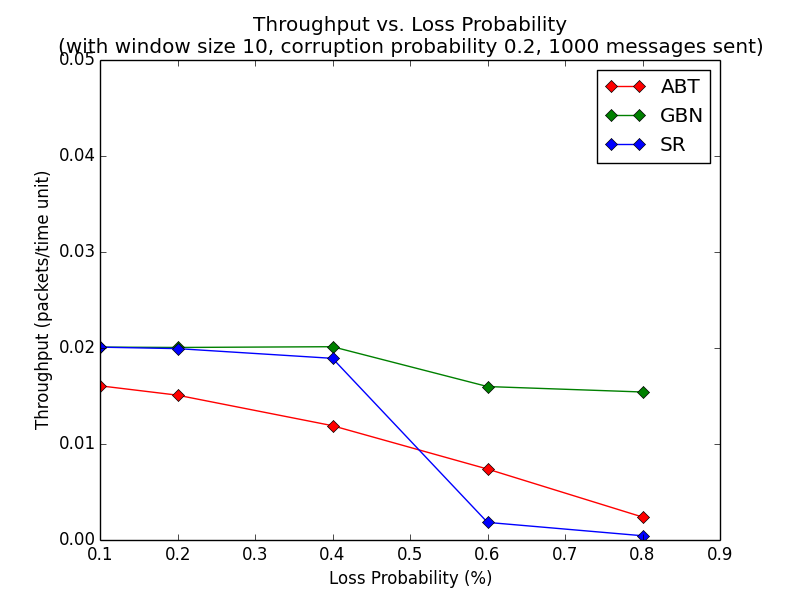
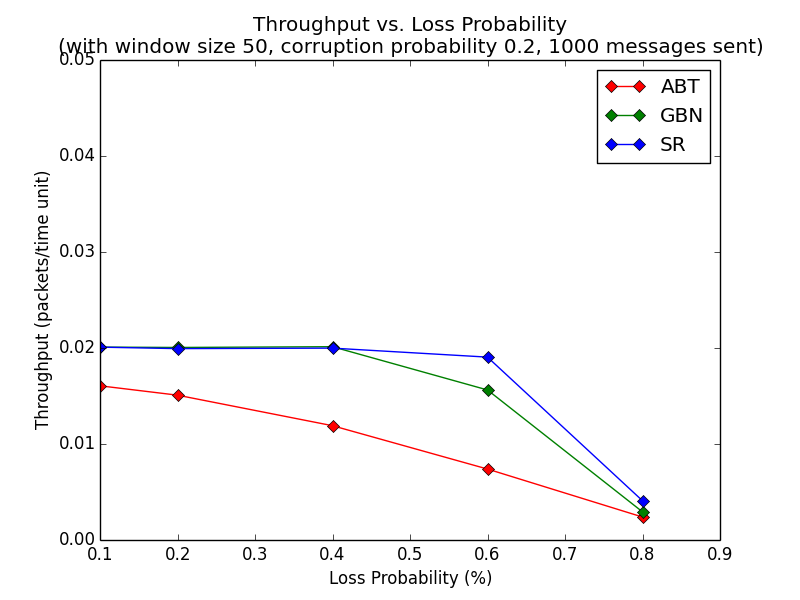
Tweak

diff --git a/rshannon/src/sr.cpp b/rshannon/src/sr.cpp
@@ -283,6 +283,18 @@ void A_input(struct pkt packet)
 	}
 	//DEBUG("sender: received ack " << packet.acknum);
 
+	// Update send_base
+	std::sort(unacked_buf.begin(), unacked_buf.end(), sort_by_seq);
+	if(unacked_buf[0].seqnum == packet.acknum) {
+		if(unacked_buf.size() > 1) {
+			send_base = unacked_buf[1].seqnum;
+		} else {
+			send_base++;
+		}
+	}
+	//send_base = unacked_buf[0].seqnum;	
+	DEBUG("BASE updated to " << send_base);	
+
 	// Mark packet as received
 	int i;
 	bool pkt_already_received = true;
@@ -297,26 +309,28 @@ void A_input(struct pkt packet)
 		unacked_buf.erase(unacked_buf.begin()+i);
 	}
 
+	// Send queued packets if there is space available in the window
+	int free_to_send = window_size - unacked_buf.size();	// The number of new packets that can be sent
+	int avail_to_send = unsent_buf.size();					// The number of queued packet available to be sent
+	if(free_to_send > avail_to_send) { free_to_send = avail_to_send; }
+	for(int i = 0; i < free_to_send; i++) {
+		if(unsent_buf.size() == 0) { break; }
+		struct pkt packet = unsent_buf.front();
+		unsent_buf.pop_front();
+		send_pkt(0, packet);
+		// Buffer unacknowledged packet
+		add_to_unacked_buf(packet);
+	}
+
 	// Update window base
 	if(packet.acknum == send_base) {
-		std::sort(unacked_buf.begin(), unacked_buf.end(), sort_by_seq);
-		send_base = unacked_buf[0].seqnum;
+		//std::sort(unacked_buf.begin(), unacked_buf.end(), sort_by_seq);
+		//send_base = unacked_buf[0].seqnum;	
+		//DEBUG("BASE updated to " << send_base);	
 
-		// Send queued packets if there is space available in the window
-		int free_to_send = window_size - unacked_buf.size();	// The number of new packets that can be sent
-		int avail_to_send = unsent_buf.size();					// The number of queued packet available to be sent
-		if(free_to_send > avail_to_send) { free_to_send = avail_to_send; }
-		for(int i = 0; i < free_to_send; i++) {
-			if(unsent_buf.size() == 0) { break; }
-			struct pkt packet = unsent_buf.front();
-			unsent_buf.pop_front();
-			send_pkt(0, packet);
-			// Buffer unacknowledged packet
-			add_to_unacked_buf(packet);
-		}
+
 	}
-	
-	send_base++;
+	//send_base++;
 }
 
 bool sort_by_seq(const pkt& a, const pkt& b) {
@@ -431,12 +445,12 @@ void B_input(struct pkt packet)
 			DEBUG("receiver: buffering out of order packet " << packet.seqnum);
 			recv_buf.push_back(packet);
 		}
-	} else if (packet.seqnum >= recv_base-window_size && packet.seqnum < recv_base) {
+	} //else if (packet.seqnum >= recv_base-window_size && packet.seqnum < recv_base) {
 		// Send acknowledgement
 		struct pkt ack_pkt = make_ack_pkt(packet.seqnum, packet.seqnum);
 		DEBUG("receiver: packet received, sending ack " << packet.seqnum);
 		send_pkt(1, ack_pkt);
-	}
+	//}
 }
 
 /* the following rouytine will be called once (only) before any other */

diff --git a/scripts/Experiment 3 Results/exp3-graphs.py b/scripts/Experiment 3 Results/exp3-graphs.py
@@ -1,7 +1,7 @@
 import matplotlib.pyplot as plt
 
 """
-Loss=0,Corruption=0,t=5
+Loss=0,Corruption=0,t=0.1,m=10000
 X-axis: Window size;
 Y-axis: Throughput (ABT, GBN and SR) in one graph/plot.
 """
@@ -9,14 +9,14 @@ def graph_one():
 	# X-axis (ABT, GBN, SR)
 	wsize = [10, 50, 100, 200, 500]
 	# Y-axis (ABT)
-	abt_throughput = [0.063484, 0.063484, 0.063484, 0.063484, 0.063484]
+	abt_throughput = [0.0696589, 0.0696589, 0.0696589, 0.0696589, 0.0696589]
 	plt.plot(wsize, abt_throughput, marker='D', color='r', label='ABT')
 	# Y-axis (GBN)
-	gbn_throughput = [0.104128, 0.1134196, 0.128549, 0.1288381, 0.1294141]
+	gbn_throughput = [0.1412745, 0.0967342, 0.1264804, 0.1380641, 0.1381571]
 	plt.plot(wsize, gbn_throughput, marker='D', color='g', label='GBN')
 	# Y-axis (SR)
-	#sr_throughput = [0.0001821, 0.0001964, 0.0001618, 0.0001414, 0.0001474]
-	#plt.plot(loss, sr_throughput, marker='D', color='b', label='SR')
+	sr_throughput = [0.0110078, 0.0510701, 0.1015294, 0.1580224, 0.1579091]
+	plt.plot(wsize, sr_throughput, marker='D', color='b', label='SR')
 	# Axis labels
 	plt.xlabel('Window Size (packets)')
 	plt.ylabel('Throughput (packets/time unit)')
@@ -25,7 +25,7 @@ def graph_one():
 	# Legend
 	plt.legend()
 	# Title
-	plt.title('Throughput vs. Window Size\n(with 2 time units between each packet sent, \ncorruption probability 0.0, loss probability 0.0, and 1000 total messages sent)')
+	plt.title('Throughput vs. Window Size\n(with 0.1 time units between each packet sent, \ncorruption probability 0.0, loss probability 0.0, and 10,000 total messages sent)')
 	# Show plot
 	plt.show()
 

diff --git a/scripts/Experiment 1 Results/exp1-graphs.py b/scripts/Experiment 1 Results/exp1-graphs.py
@@ -45,7 +45,7 @@ def graph_two():
 	gbn_throughput = [0.0200937, 0.0200554, 0.0201345, 0.0156285, 0.0029316]
 	plt.plot(loss, gbn_throughput, marker='D', color='g', label='GBN')
 	# Y-axis (SR)
-	sr_throughput = [0.020088, 0.0199358, 0.0199874, 0.0190498, 0.0025836]
+	sr_throughput = [0.020088, 0.0199358, 0.0199874, 0.0190498, 0.0040894]
 	plt.plot(loss, sr_throughput, marker='D', color='b', label='SR')
 	# Axis labels
 	plt.xlabel('Loss Probability (%)')

diff --git a/rshannon/src/gbn.cpp b/rshannon/src/gbn.cpp
@@ -118,6 +118,7 @@ void A_output(struct msg message)
 		struct pkt packet = make_pkt(next_seq_num, 0, message);
 		unsent(packet);
 	}
+	DEBUG("num unacked: " << unacked_buf.size());
 }
 
 void cumulative_ack(int seq_num) {
